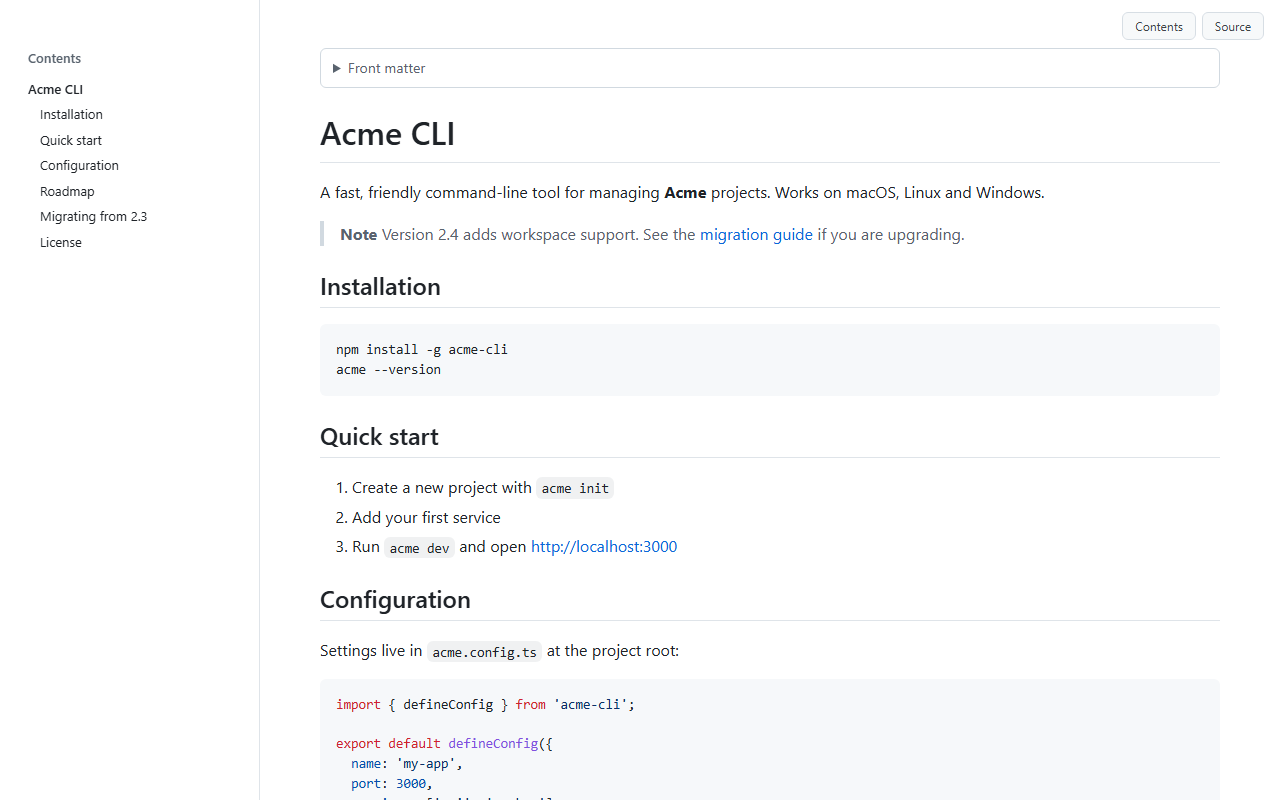
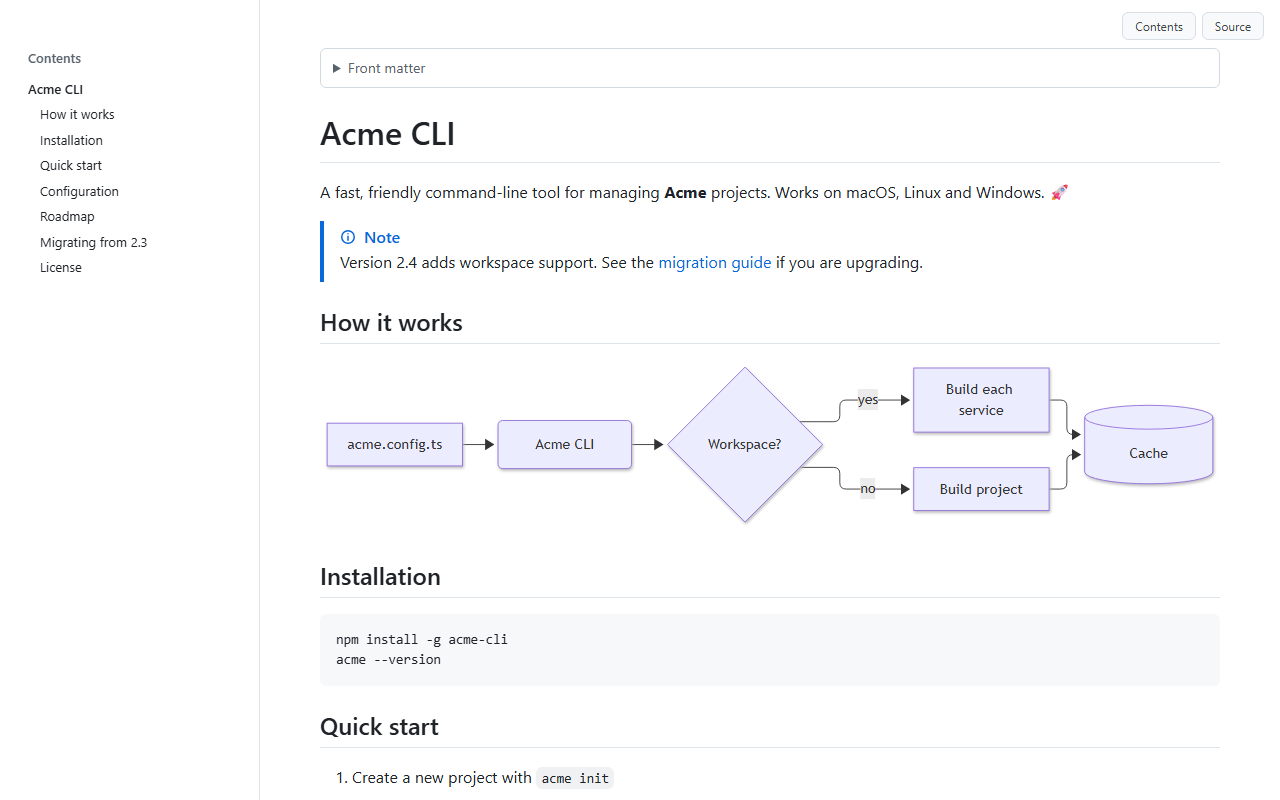
Prepare 1.0.0 for the Chrome Web Store
- Serve lazy/ (Mermaid, KaTeX) only through a per-session dynamic URL
  (use_dynamic_url) so pages cannot detect the extension by probing it
- Store screenshots now show a Mermaid diagram, math and GitHub alerts
  (store/demo.md, new store/demo-notes.md for the dark scene)
- scripts/e2e.mjs: load the built extension into headless Edge and report
  what was rendered for test/sample.md
- Version 1.0.0

diff --git a/store/SUBMISSION.md b/store/SUBMISSION.md
@@ -12,7 +12,9 @@
 | プライバシーポリシー | `docs/privacy-policy.md` → https://zetatechnology.github.io/mark-viewport/privacy-policy/ | main に push すると GitHub Pages に自動反映 |
 | サードパーティのライセンス表記 | zip 内の `THIRD_PARTY_NOTICES.txt` | `npm run build` で自動生成 |
 
-スクリーンショットは `store/demo.md` を実際の content script で描画したものです。
+スクリーンショットは `store/demo.md`（ライト・ソース表示）と `store/demo-notes.md`（ダーク）を、実際の content script で描画したものです。
+
+`node scripts/e2e.mjs` を実行すると、ビルドした拡張機能を Edge のヘッドレスモードに読み込み、`test/sample.md` の描画結果（見出し、数式、アラートなど）を確認できます。ブラウザは環境変数 `CHROME_PATH` で指定します。Chrome 本体はコマンドラインからの拡張機能の読み込みを受け付けないため、Edge を使います。この方法では Mermaid の図は描画が終わる前に結果を取得してしまうので、図は実際のブラウザで確認してください。
 
 ## 提出前に決めること・やること
 
@@ -21,7 +23,7 @@
 - [ ] **トレーダー申告**（EU 向け）：会社として公開する場合は「トレーダー」を選び、住所・電話番号・メールアドレスを登録します（EU のユーザーに表示されます）。個人の非商用なら「非トレーダー」です。
 - [x] **プライバシーポリシーの公開 URL**：https://zetatechnology.github.io/mark-viewport/privacy-policy/ （GitHub Pages、`main` ブランチの `docs/`）
 - [ ] **連絡先**：問い合わせ先は GitHub Issues（https://github.com/zetatechnology/mark-viewport/issues）にしています。ダッシュボードの「サポート URL」にも同じ URL を設定します。
-- [ ] **バージョン**：`public/manifest.json` と `package.json` の `version`（現在 0.1.0）。最初の公開を 1.0.0 にするならここで変えて `npm run zip` し直します。
+- [x] **バージョン**：1.0.0（`public/manifest.json` と `package.json`）
 
 ## ダッシュボードでの手順
 

diff --git a/store/demo-notes.md b/store/demo-notes.md
@@ -1,0 +1,41 @@
+# Cache design notes
+
+How the build cache decides when an artifact can be reused.
+
+## Hit rate
+
+For $n$ builds with $h$ cache hits, the hit rate is $r = h / n$. The expected build time is
+
+$$
+E[T] = r \cdot T_{\text{hit}} + (1 - r) \cdot T_{\text{miss}}
+$$
+
+> [!TIP]
+> Raising the hit rate from 60% to 90% cuts the average build time by more than half when $T_{\text{miss}} \gg T_{\text{hit}}$.
+
+## Request flow
+
+```mermaid
+sequenceDiagram
+  participant CLI
+  participant Cache
+  participant Builder
+  CLI->>Cache: lookup(hash)
+  alt hit
+    Cache-->>CLI: artifact
+  else miss
+    CLI->>Builder: build()
+    Builder-->>CLI: artifact
+    CLI->>Cache: store(hash, artifact)
+  end
+```
+
+## Key
+
+```python
+def cache_key(inputs: list[bytes]) -> str:
+    h = hashlib.sha256()
+    for chunk in sorted(inputs):
+        h.update(chunk)
+    return h.hexdigest()
+```

diff --git a/store/demo.md b/store/demo.md
@@ -5,10 +5,22 @@ version: 2.4.0
 
 # Acme CLI
 
-A fast, friendly command-line tool for managing **Acme** projects. Works on macOS, Linux and Windows.
+A fast, friendly command-line tool for managing **Acme** projects. Works on macOS, Linux and Windows. :rocket:
 
-> **Note**
+> [!NOTE]
 > Version 2.4 adds workspace support. See the [migration guide](#migrating-from-23) if you are upgrading.
+
+## How it works
+
+```mermaid
+flowchart LR
+  A[acme.config.ts] --> B(Acme CLI)
+  B --> C{Workspace?}
+  C -->|yes| D[Build each service]
+  C -->|no| E[Build project]
+  D --> F[(Cache)]
+  E --> F
+```
 
 ## Installation
 
